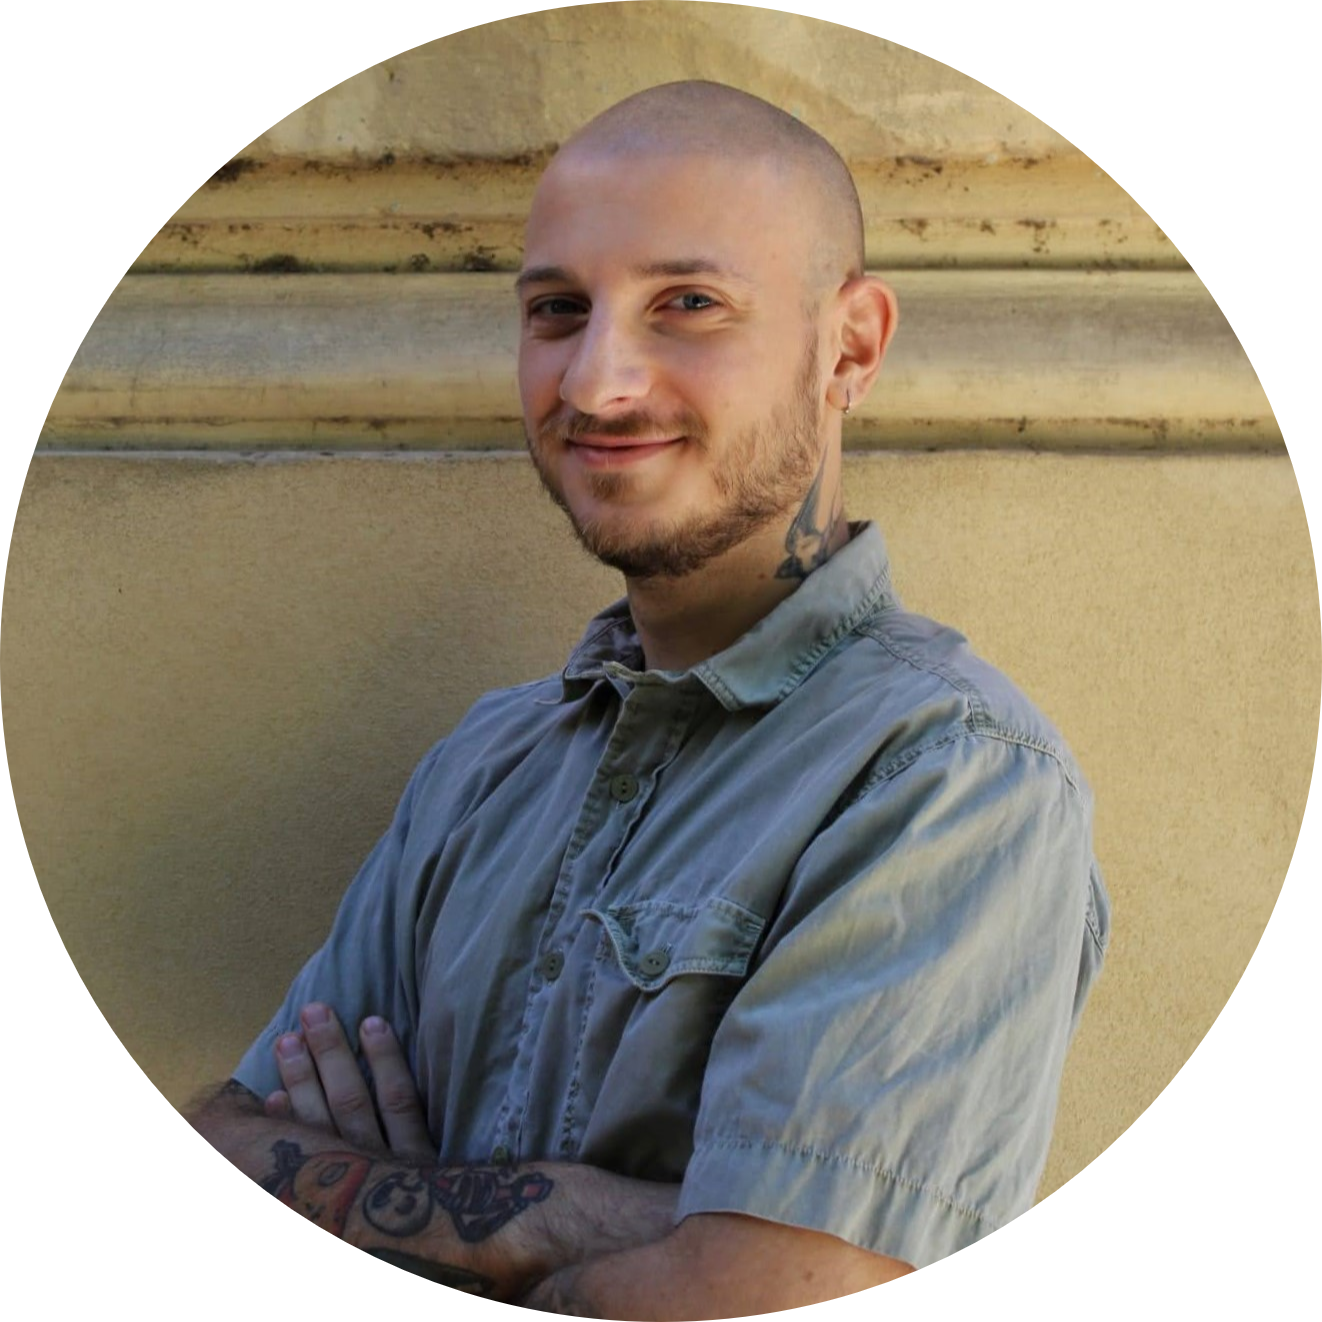
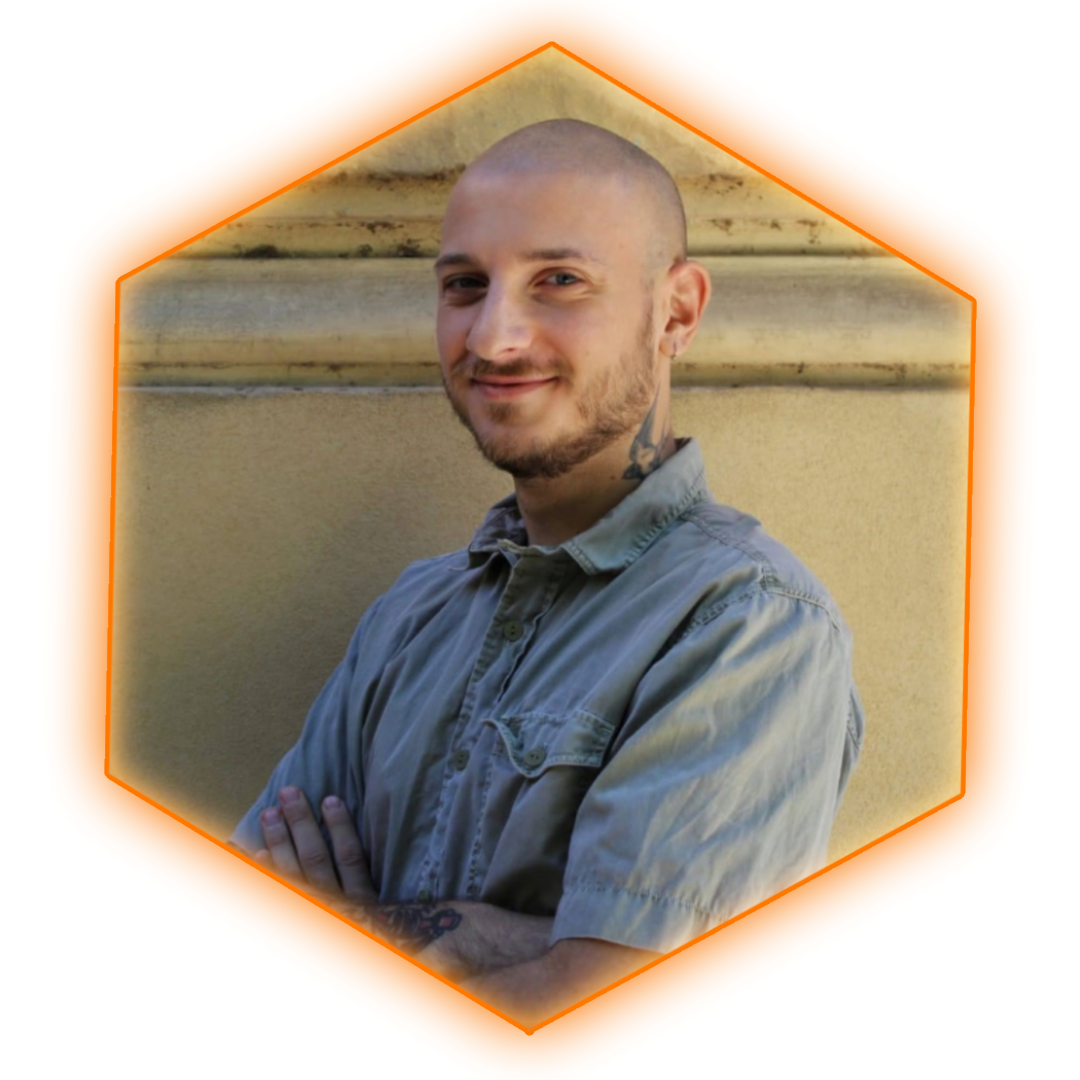
updated hero image effects

diff --git a/src/components/Hero2/Hero.module.css b/src/components/Hero2/Hero.module.css
@@ -11,6 +11,7 @@
     justify-content: space-between;
     padding: 15px;
     border-radius: 15px;
+    gap: 40px;
     
 }
 
@@ -68,6 +69,9 @@
 .imgContainer img {
 
     width: 100%;
+    border-radius: 100%;
+    box-shadow: 0 0 15px 15px var(--glow);
+    
    
     /*
     animation-name: floating;
